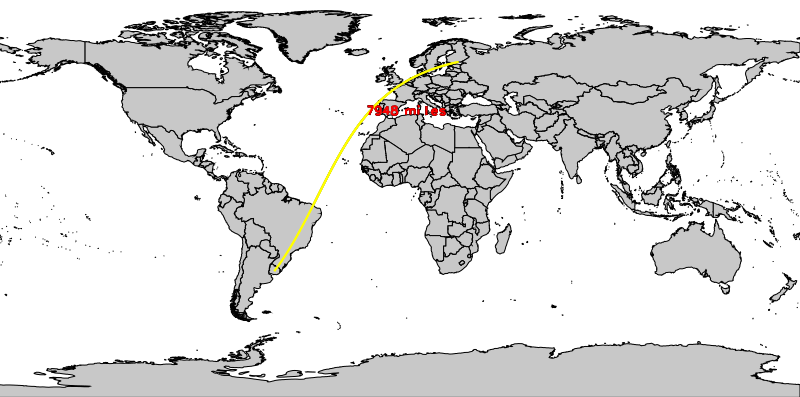
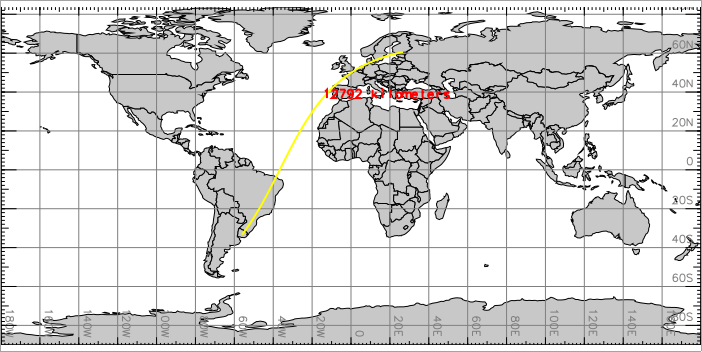
d.geodesic: hardcoded miles changed to units choice; new screenshot (related to trac https://trac.osgeo.org/grass/ticket/2417); d.rhumbline: minor sync with d.geodesic
git-svn-id: https://svn.osgeo.org/grass/grass/trunk@63798 15284696-431f-4ddb-bdfa-cd5b030d7da7

diff --git a/display/d.geodesic/d.geodesic.html b/display/d.geodesic/d.geodesic.html
@@ -8,20 +8,12 @@ within the boundaries of the user's current geographic region.
 
 <h2>OPTIONS</h2>
 
-This program can be run either interactively or non-interactively. 
-If the user types <b>d.geodesic</b> on the command line and runs it without other program 
-parameters, the mouse will be activated; the user is asked to use 
-the mouse to indicate the starting and ending points of each geodesic line 
-to be drawn. The default line color (black) and text color (red) 
-will be used. 
+By default black line color and red text color will be used. 
 
-<p>Alternately, the user can specify the starting and ending coordinates 
-of the geodesic, line color, and text color on the command line, 
-and run the program non-interactively. 
-
-<p>Once the user indicates the starting and ending coordinates 
-of the geodesic, the line and its length (in miles) are displayed to 
-the user's graphics monitor. If the text color is set to <em>none</em>,
+<p>
+By indicating the starting and ending coordinates 
+of the geodesic, the line and its length (by default in meters) are displayed to 
+the graphical output. If the text color is set to <em>none</em>,
 the great circle distance is not displayed.
 
 <h2>EXAMPLE</h2>
@@ -33,10 +25,11 @@ A geodesic line if shown over the political map of the world
 g.region vector=country_boundaries -p
 d.mon wx0
 d.vect country_boundaries type=area
+# show additionally a 20 degree grid
+d.grid 20
+
 d.geodesic coordinates=55:58W,33:18S,26:43E,60:37N \
-  line_color=yellow text_color=red
-# show additionally 10 degree grid
-d.grid 10
+  line_color=yellow text_color=red units=kilometers
 </pre></div>
 
 <p><center>

diff --git a/display/d.geodesic/main.c b/display/d.geodesic/main.c
@@ -11,7 +11,7 @@
  *               Jan-Oliver Wagner <jan intevation.de>
  * PURPOSE:      displays a geodesic line in the active frame on the user's 
  *               graphics monitor
- * COPYRIGHT:    (C) 1999-2006 by the GRASS Development Team
+ * COPYRIGHT:    (C) 1999-2014 by the GRASS Development Team
  *
  *               This program is free software under the GNU General Public
  *               License (>=v2). Read the file COPYING that comes with GRASS
@@ -31,10 +31,13 @@ int main(int argc, char *argv[])
     int text_color;
     double lon1, lat1, lon2, lat2;
     char *deftcolor;
+    const char *unit;
+    int unit_id;
+    double factor;
     struct GModule *module;
     struct
     {
-	struct Option *lcolor, *tcolor, *coor;
+	struct Option *lcolor, *tcolor, *coor, *units;
     } parm;
 
     G_gisinit(argv[0]);
@@ -42,6 +45,8 @@ int main(int argc, char *argv[])
     module = G_define_module();
     G_add_keyword(_("display"));
     G_add_keyword(_("distance"));
+    G_add_keyword(_("great circle"));
+    G_add_keyword(_("shortest path"));
     module->description =
 	_("Displays a geodesic line, tracing the shortest distance "
 	"between two geographic points along a great circle, in "
@@ -60,13 +65,23 @@ int main(int argc, char *argv[])
     parm.tcolor->key = "text_color";
     parm.tcolor->label = _("Text color");
     parm.tcolor->answer = NULL;
-    
+
+    parm.units = G_define_standard_option(G_OPT_M_UNITS);
+    parm.units->options = "meters,kilometers,feet,miles";
+    parm.units->label = parm.units->description;
+    parm.units->answer = "meters";
+
     if (G_parser(argc, argv))
 	exit(EXIT_FAILURE);
 
-
     if (G_projection() != PROJECTION_LL)
-	G_fatal_error(_("Location is not %s"), G__projection_name(PROJECTION_LL));
+	G_fatal_error(_("Location is not %s"),
+		      G__projection_name(PROJECTION_LL));
+
+    /* get conversion factor and unit name */
+    unit_id = G_units(parm.units->answer);
+    factor = 1. / G_meters_to_units_factor(unit_id);
+    unit = G_get_units_name(unit_id, 1, 0);
 
     if (parm.coor->answers[0] == NULL)
 	G_fatal_error(_("No coordinates given"));
@@ -103,8 +118,8 @@ int main(int argc, char *argv[])
     else
 	text_color = D_translate_color(parm.tcolor->answer);
 
-    plot(lon1, lat1, lon2, lat2, line_color, text_color);
-    
+    plot(lon1, lat1, lon2, lat2, line_color, text_color, factor, unit);
+
     D_save_command(G_recreate_command());
     D_close_driver();
 

diff --git a/display/d.rhumbline/main.c b/display/d.rhumbline/main.c
@@ -17,7 +17,8 @@
  *               for details.
  *
  *****************************************************************************/
-/* TODO: implement G_rhumbline_distance() in libgis 
+/* TODO: implement G_rhumbline_distance() in libgis
+ * see also d.geodesic
  */
 
 #include <stdlib.h>
@@ -56,9 +57,15 @@ int main(int argc, char *argv[])
     parm.lcolor->label = _("Line color");
 
 #ifdef CAN_DO_DISTANCES
-    parm.tcolor = G_define_option(G_OPT_M_COORDS);
+    parm.tcolor = G_define_standard_option(G_OPT_C);
     parm.tcolor->key = "text_color";
     parm.tcolor->label = _("Text color");
+    parm.tcolor->answer = NULL;
+
+    parm.units = G_define_standard_option(G_OPT_M_UNITS);
+    parm.units->options = "meters,kilometers,feet,miles";
+    parm.units->label = parm.units->description;
+    parm.units->answer = "meters";
 #endif
 
     if (G_parser(argc, argv))
@@ -67,6 +74,13 @@ int main(int argc, char *argv[])
     if (G_projection() != PROJECTION_LL)
 	G_fatal_error(_("Location is not %s"),
 		      G__projection_name(PROJECTION_LL));
+
+#ifdef CAN_DO_DISTANCES
+    /* get conversion factor and unit name */
+    unit_id = G_units(parm.units->answer);
+    factor = 1. / G_meters_to_units_factor(unit_id);
+    unit = G_get_units_name(unit_id, 1, 0);
+#endif
 
     if (parm.coor->answers[0] == NULL)
 	G_fatal_error(_("No coordinates given"));
@@ -98,10 +112,11 @@ int main(int argc, char *argv[])
 	deftcolor = DEFAULT_FG_COLOR;
 
     if (parm.tcolor->answer == NULL)
-	parm.tcolor->answer = deftcolor;
-    text_color = D_translate_color(parm.tcolor->answer);
-    if (!text_color)
 	text_color = D_translate_color(deftcolor);
+    else if (strcmp(parm.tcolor->answer, "none") == 0)
+	text_color = -1;
+    else
+	text_color = D_translate_color(parm.tcolor->answer);
 #endif
 
     plot(lon1, lat1, lon2, lat2, line_color, text_color);

diff --git a/display/d.geodesic/plot.c b/display/d.geodesic/plot.c
@@ -1,13 +1,11 @@
-#include <string.h>
-#include <grass/display.h>
-#include <grass/gis.h>
 #include <stdio.h>
+#include <string.h>
+#include <grass/gis.h>
+#include <grass/display.h>
 #include "local_proto.h"
 
-#define METERS_TO_MILES(x) ((x) * 6.213712e-04)
-
 void plot(double lon1, double lat1, double lon2, double lat2,
-     int line_color, int text_color)
+	  int line_color, int text_color, double factor, const char *unit)
 {
     double distance;
     double text_x, text_y;
@@ -33,6 +31,7 @@ void plot(double lon1, double lat1, double lon2, double lat2,
 	for (i = 0; i <= nsteps; i++) {
 	    double lon = lon1 + (lon2 - lon1) * i / nsteps;
 	    double lat = G_geodesic_lat_from_lon(lon);
+
 	    if (i == 0)
 		D_move_abs(lon, lat);
 	    else
@@ -58,7 +57,7 @@ void plot(double lon1, double lat1, double lon2, double lat2,
 	D_text_size(10, 10);
 
 	distance = G_geodesic_distance(lon1, lat1, lon2, lat2);
-	sprintf(buf, "%.0f miles", METERS_TO_MILES(distance));
+	sprintf(buf, "%.0f %s", distance / factor, unit);
 
 	D_pos_abs(text_x, text_y);
 	D_get_text_box(buf, &t, &b, &l, &r);

diff --git a/display/d.geodesic/local_proto.h b/display/d.geodesic/local_proto.h
@@ -1,1 +1,1 @@
-void plot(double, double, double, double, int, int);
+void plot(double, double, double, double, int, int, double, const char *);
